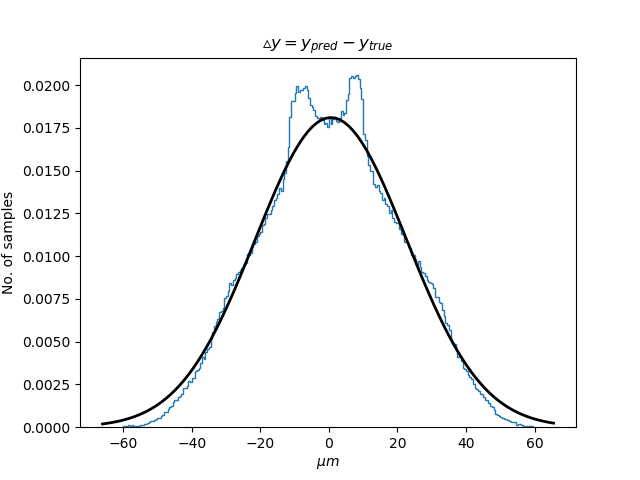
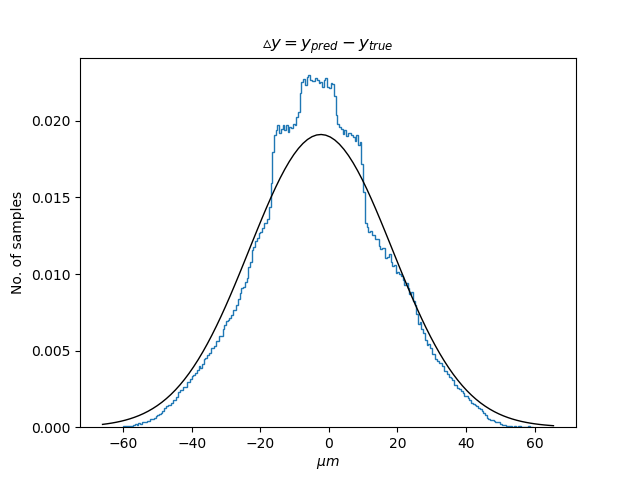
new plots

diff --git a/code/text2h5.py b/code/text2h5.py
@@ -171,7 +171,7 @@ below_threshold_i = train_data < threshold
 train_data[below_threshold_i] = 0
 print("applied threshold")
 
-train_data = int(train_data/10)
+train_data = (train_data/10).astype('int32')
 print("divided by 10")
 
 
@@ -314,7 +314,7 @@ below_threshold_i = test_data < threshold
 test_data[below_threshold_i] = 0
 print("applied threshold")
 
-test_data = int(test_data/10)
+test_data = (test_data/10).astype('int32')
 print("divided by 10")
 
 #IS IT BETTER TO SPECIFIY DTYPES?

diff --git a/code/find_hit_position.py b/code/find_hit_position.py
@@ -53,7 +53,7 @@ f.close()
 # Model configuration
 batch_size = 128
 loss_function = 'mse'
-n_epochs = 5
+n_epochs = 20
 optimizer = Adam()
 validation_split = 0.3
 
